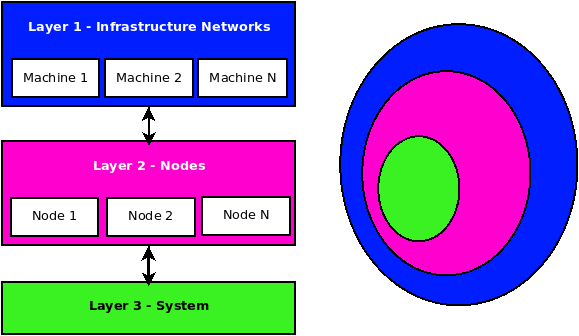
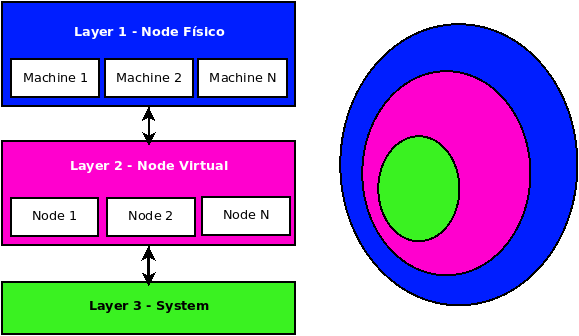
Updates

Changed region(s): [[0.0311, 0.0595, 0.4663, 0.119], [0.1244, 0.4762, 0.4041, 0.506], [0.0, 0.1786, 0.0311, 0.2679]]

diff --git a/2 - infrastructure networks/1 - basics.md b/2 - infrastructure networks/1 - basics.md
@@ -1,18 +1,18 @@
-### <b>Infrastructure Networks</b>
+### <b>Esquema Geral</b>
 
 ****
 
-Também chamado de <b>Layer 1</b>, trata-se do setor responsável pela configuração e gestão da organização da infraestrutura física. 
-
-Um sistema (Layer 3) pode ter seu processamento distribuído em uma rede de nodes (Layer 2). Por sua vez, estes nodes podem ser processos e sub-processos (Layer 1).
+Um sistema (Layer 3) pode ter seu processamento distribuído em uma rede de nodes virtuais (Layer 2), que tratam-se de sub-processos. Por sua vez, estes sub-processos são de um processo principal, isto é, um node que roda em camada física (Layer 1).
 
 <p align="center" >
 <br>
-<img src="../0%20-%20extras/diagram/general-1.png" />
+<img src="../0%20-%20extras/diagram/general-1.png?v=1" />
 <br>
 <br>
 </p>
 
-Em outras palavras, o Layer 1 trata-se de uma abstração da infraestrutura física disponível, podendo configurar um agrupamento de máquinas distribuídas em rede, para posteriormente utilizá-las como uma infraestrutura computacional unificada, ou algo semelhante.
+Em outras palavras, o Layer 1 trata-se de uma abstração da infraestrutura física disponível, podendo configurar um agrupamento de máquinas distribuídas em rede, para posteriormente utilizá-las como uma infraestrutura computacional.
+
+Em cima desses nodes de camada física, é executado uma rede de nodes virtuais. Sobre estes serão executados os sistemas/aplicações.
 
 

diff --git a/2 - infrastructure networks/2 - layer 1.md b/2 - infrastructure networks/2 - layer 1.md
@@ -24,6 +24,10 @@ Pontos importantes:
 
 - As conexões de rede TCP/IP são todas persistentes. Se não houver comunicação, o node ficará persistindo eternamentem, isto é, enquanto ele existir como processo ou sub-processo na máquina física.
 
+- Os nodes se intercomunicam apenas com nodes da mesma camada. Ou seja, os nodes de camada 1 se comunicam apenas com outros nodes de camada 1.
+
+- Quando um novo node de camada 1 vai se conectar a algum outro node da mesma camada. 
+
 <br>
 
 ****
